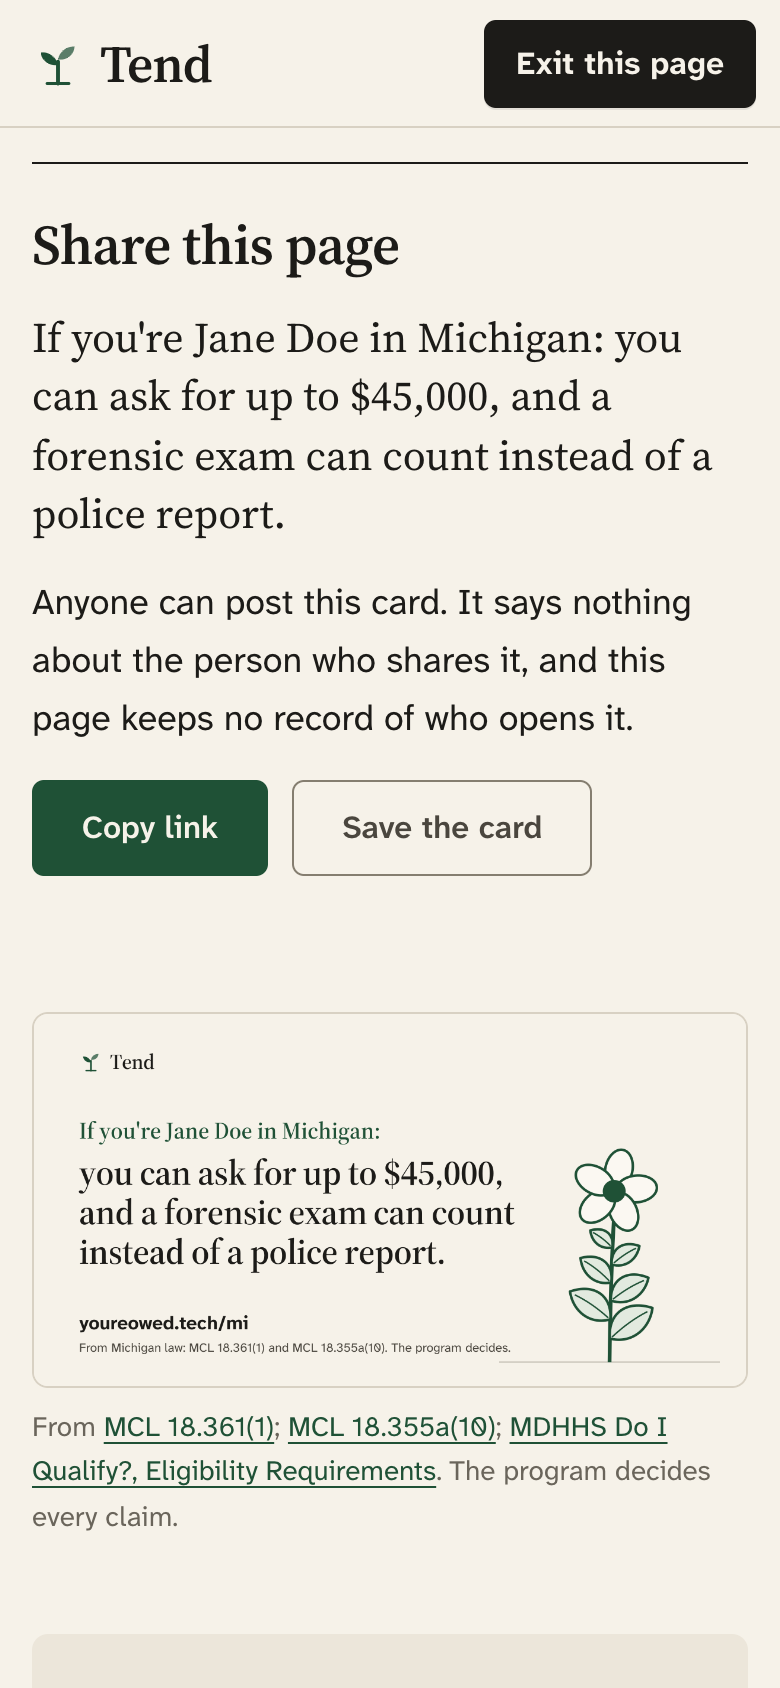
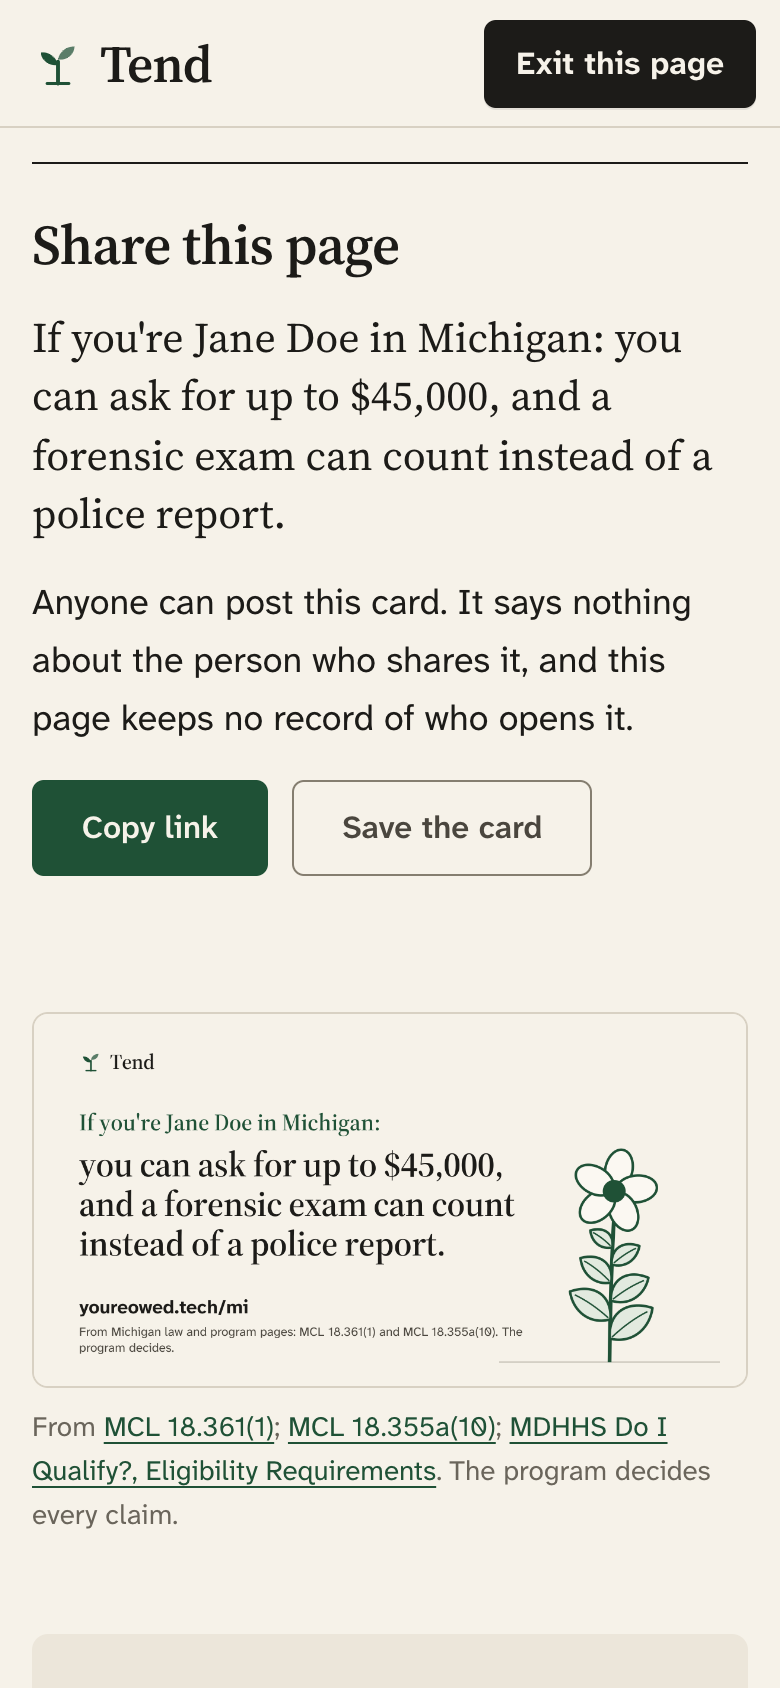
web: the press kit says Tend won Capital One's Best Use of Nessie prize, as Devpost and the home page do
Devpost shows "Winner" with no place, the prize had three winners, and it
is a sponsor prize, not a track, so "1st place in Capital One's track"
claimed more than the source. The fact sheet is reprinted with the new
line and the merged count (2,728 rules), dated Oct 20. Two screenshots
changed with the merged rules: Michigan's page (the deadline tile now
says "with exceptions") and its share card (a forensic exam can count
instead of a police report). The other four came out pixel for pixel
the same.

Changed region(s): [[0.0923, 0.6469, 0.6462, 0.8009], [0.0308, 0.8934, 0.1231, 0.9242], [0.1538, 0.8934, 0.1846, 0.9242]]

diff --git a/web/app/press/facts.ts b/web/app/press/facts.ts
@@ -11,7 +11,7 @@ import { loadCorpus } from "@/components/public/data";
 import { LINKS } from "@/components/tour/links";
 
 // The day these facts were last checked against the docs and the data. Change it along with any fact.
-export const CHECKED = "2026-10-19";
+export const CHECKED = "2026-10-20";
 
 // TODO(Sanat): two or three sentences, in your own words, on why you built Tend. Until then /press shows a
 // marked placeholder and the fact sheet leaves it out.
@@ -58,7 +58,7 @@ export interface PressFacts {
 
 // The line from the press brief, word for word.
 export const BUILDER =
-  "Built by Sanat Gupta, a computer science senior at the University of Michigan, at MHacks 2026, where it took 1st place in Capital One's track.";
+  "Built by Sanat Gupta, a computer science senior at the University of Michigan, at MHacks 2026, where it won Capital One's Best Use of Nessie prize.";
 
 export const NOT_ADVICE =
   "Tend is not legal advice. It shows what each program's own rules say, with the quote. The program decides.";

diff --git a/web/tests/press.test.tsx b/web/tests/press.test.tsx
@@ -57,8 +57,10 @@ describe("/press", () => {
 
   it("says what Tend does in one paragraph, then gives the builder's line word for word", () => {
     expect(BUILDER).toBe(
-      "Built by Sanat Gupta, a computer science senior at the University of Michigan, at MHacks 2026, where it took 1st place in Capital One's track.",
+      "Built by Sanat Gupta, a computer science senior at the University of Michigan, at MHacks 2026, where it won Capital One's Best Use of Nessie prize.",
     );
+    // Devpost shows "Winner" with no place, the prize had three winners, and it is a sponsor prize, not a track.
+    expect(BUILDER).not.toMatch(/1st|first place|track/i);
     expect(screen.getByRole("heading", { level: 1 }).textContent).toBe("Press kit");
     const about = screen.getByText(kit.about);
     expect(about.tagName).toBe("P");
